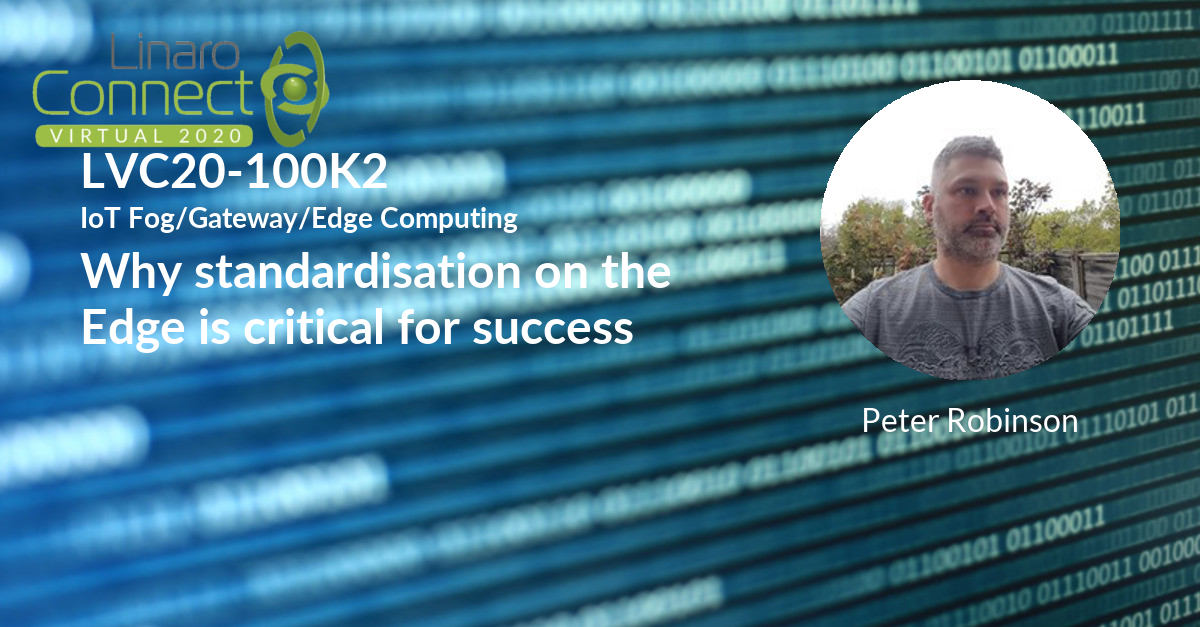
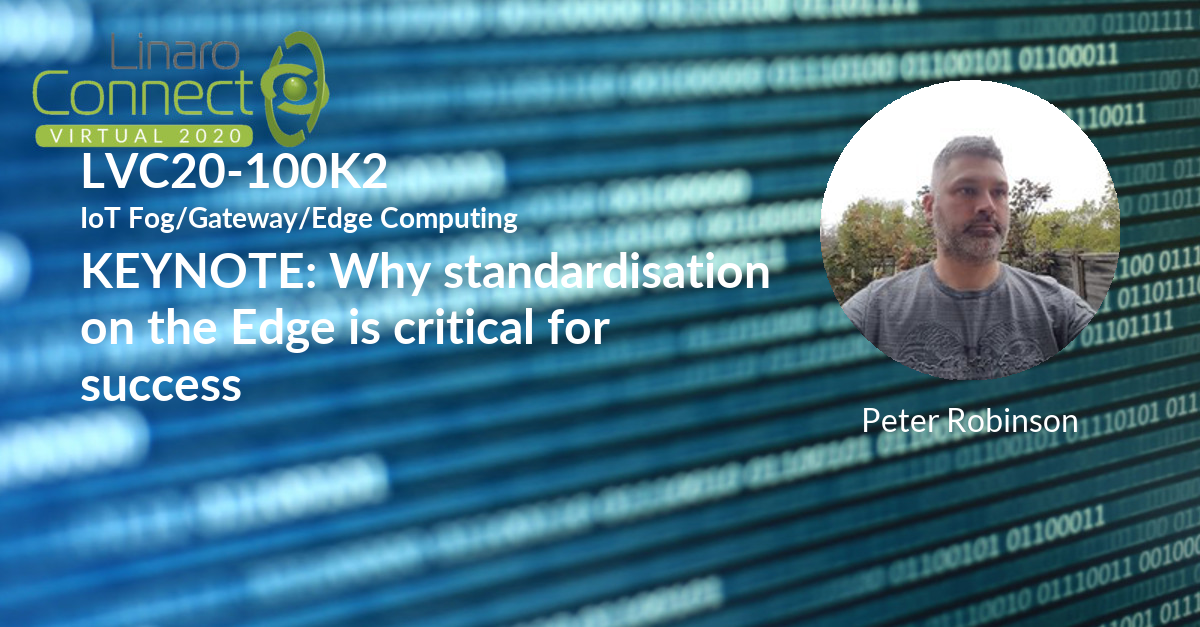
Session update for session-update-200918-1428

Changed region(s): [[0.0617, 0.3939, 0.6475, 0.6364]]

diff --git a/_posts/lvc20/sessions/2020-09-18-lvc20-200k2.md b/_posts/lvc20/sessions/2020-09-18-lvc20-200k2.md
@@ -1,0 +1,54 @@
+---
+categories:
+- lvc20
+description: 'The European Commission has set an extremely ambitious target to the
+  European Processor Initiative (EPI): develop the processor that will empower the
+  European Exascale machines, and laid the foundations of the European Sovereignty
+  for high-performance and low-power processing units. The European ambition and how
+  it is implemented is presented.'
+image: /assets/images/featured-images/lvc20/LVC20-200K2.png
+session_id: LVC20-200K2
+session_room: '[Track 1] IoT/Edge/Embedded'
+session_slot:
+  end_time: 2020-09-23 08:10
+  start_time: 2020-09-23 07:55
+session_speakers:
+- speaker_bio: Since the beginning of 2020, Jean-Marc is the Chief of Staff of the
+    Innovation and Strategy Division at Atos. In addition, since mid-2018, Jean-Marc
+    has been also elected as Chair of the Board of the European Processor Initiative
+    (EPI).&lt;br&gt;Prior to that, Jean-Marc Denis took different positions in the
+    HPC industry.&lt;br&gt;After five years of research in the development of new
+    solvers for the for Maxwell equations at Matra Defense (France) as mathematician
+    from 1990 to 1995, Jean-Marc Denis had several technical position in the HPC industry
+    between 1995 to 2004 from &amp;nbsp;HPC pre-sales to Senior Solution Architect.&lt;br&gt;Since
+    mid if 2004 Jean-Marc has worked at Bull SAS head Quarter (France) where he has
+    started the HPC activity. In less than 10 years, the HPC revenue at Bull exploded
+    from nothing in 2004 to 200M€ in 2015, making Bull the undisputed leader of the
+    European HPC industry and the fourth in the world. From 2011 to the end of 2016,
+    Jean-Marc has leaded the worldwide business activity with the goal to consolidate
+    the ATOS/Bull position in Europe and to make ATOS/Bull a worldwide leader in Extreme
+    Computing with footprint in Middle-East, Asia, Africa and South America.&lt;br&gt;From
+    2018 to 2020, Jean-Marc has been the head of Strategy and Plan at Atos/Bull, in
+    charge of the global cross-Business Unit Strategy and of the definition of the
+    3 years business plan.&lt;br&gt;In 2016 and 2017, Jean-Marc has been in charge
+    of the definition of the strategy for the BigData Division at ATOS/Bull. In his
+    position, his role is to define the global approach for the different BigData
+    business lines covering HPC, Legacy (mainframe), Entreprise computing, DataScience
+    consulting and Software.&lt;br&gt;In parallel to his activities at ATOS/Bull,
+    since 2008, Jean-Marc Denis has taught “Supercomputer Architecture” concepts in
+    Master 2 degree at the University of Reims Champagne Ardennes (URCA), France.&lt;br&gt;Education&lt;ul&gt;&lt;li&gt;Masters
+    degree in Mathematics (U. of Tours, France, 1989)&lt;/li&gt;&lt;li&gt;Masters
+    degree in Computer Science (U. of Toulouse, France, 1990)&lt;/li&gt;&lt;li&gt;Engineering
+    diploma in Computer science, (ENSEEIHT, Toulouse, France, 1990)&lt;/li&gt;&lt;/ul&gt;
+  speaker_company: SiPearl
+  speaker_image: http://avatars.sched.co/a/30/11617155/avatar.jpg.320x320px.jpg?a0e
+  speaker_name: Jean-Marc Denis
+  speaker_position: Chief of Staff of the Innovation and Strategy Division at Atos,
+    Chair of the Board of the European Processor Initiative (EPI)
+  speaker_role: speaker
+session_track: HPC
+tag: session
+tags: HPC
+title: 'LVC20-200K2 KEYNOTE (Part 2): EPI, the European approach for Exascale ages.
+  The road toward sovereignty'
+---

diff --git a/_posts/lvc20/sessions/2020-09-18-lvc20-100k2.md b/_posts/lvc20/sessions/2020-09-18-lvc20-100k2.md
@@ -27,5 +27,5 @@ session_speakers:
 session_track: IoT Fog/Gateway/Edge Computing
 tag: session
 tags: IoT Fog/Gateway/Edge Computing
-title: LVC20-100K2 Why standardisation on the Edge is critical for success
+title: 'LVC20-100K2 KEYNOTE: Why standardisation on the Edge is critical for success'
 ---

diff --git a/_posts/lvc20/sessions/2020-09-18-lvc20-200k1.md b/_posts/lvc20/sessions/2020-09-18-lvc20-200k1.md
@@ -31,5 +31,6 @@ session_speakers:
 session_track: HPC
 tag: session
 tags: HPC
-title: LVC20-200K1 Developing Rhea, the SiPearl European High-Performance Processor
+title: 'LVC20-200K1 KEYNOTE (Part 1): Developing Rhea, the SiPearl European High-Performance
+  Processor'
 ---

diff --git a/_posts/lvc20/sessions/2020-09-18-lvc20-200k.md b/_posts/lvc20/sessions/2020-09-18-lvc20-200k.md
@@ -29,5 +29,5 @@ session_speakers:
 session_track: Open Source Development
 tag: session
 tags: Open Source Development
-title: LVC20-200K Respect! (R-E-S-P-E-C-T!)
+title: 'LVC20-200K KEYNOTE: Respect! (R-E-S-P-E-C-T!)'
 ---
